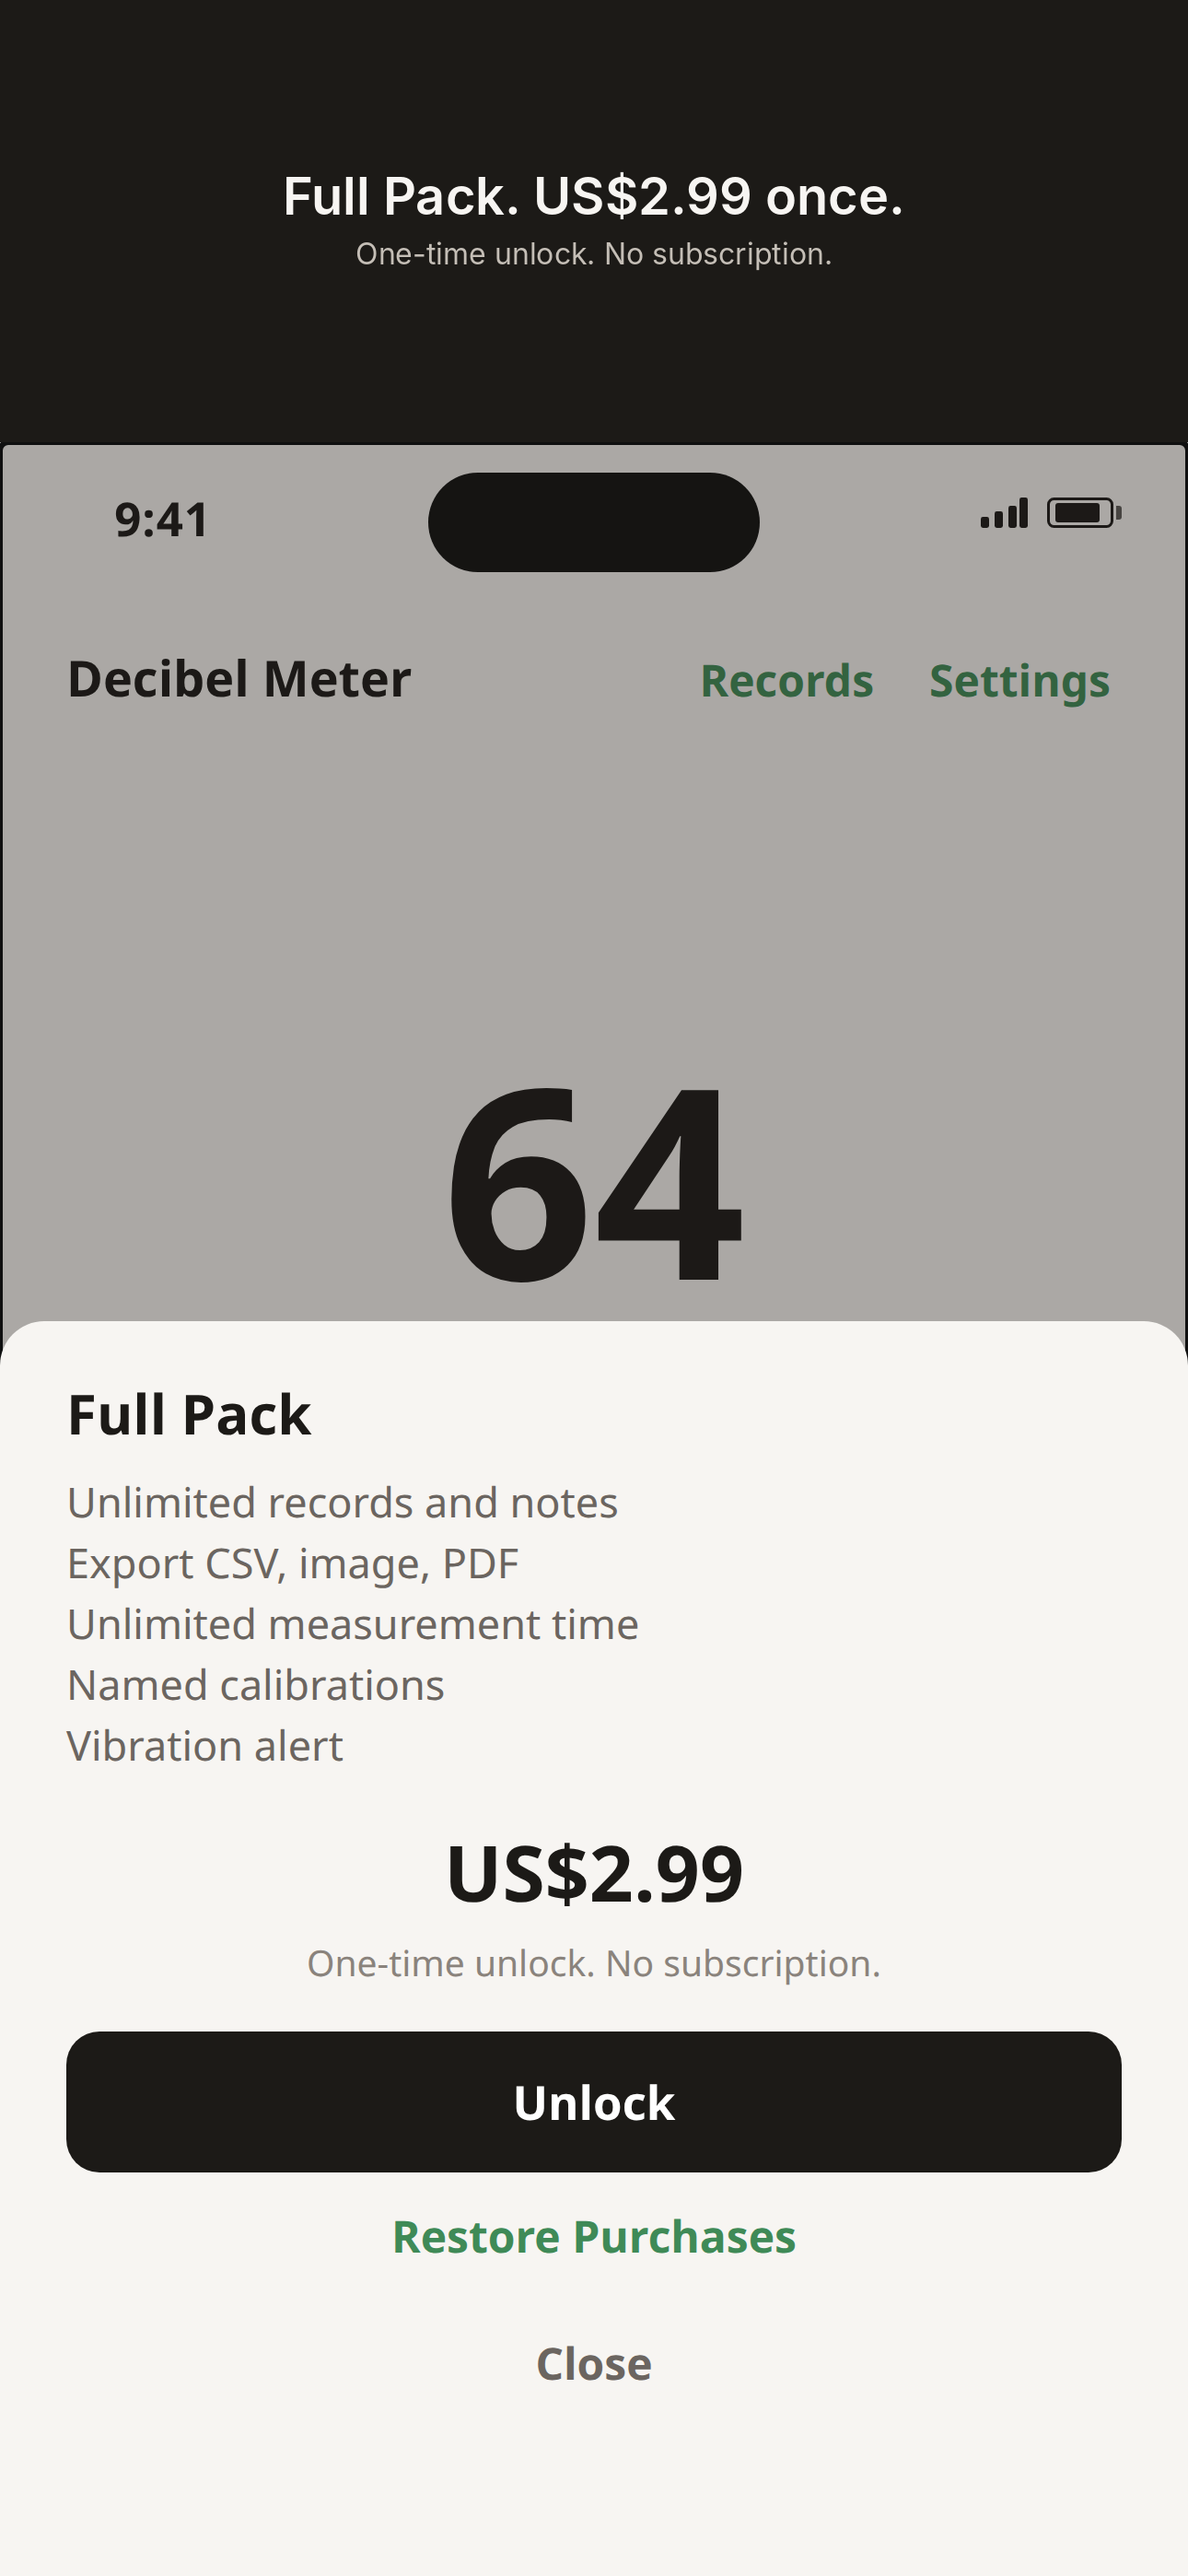
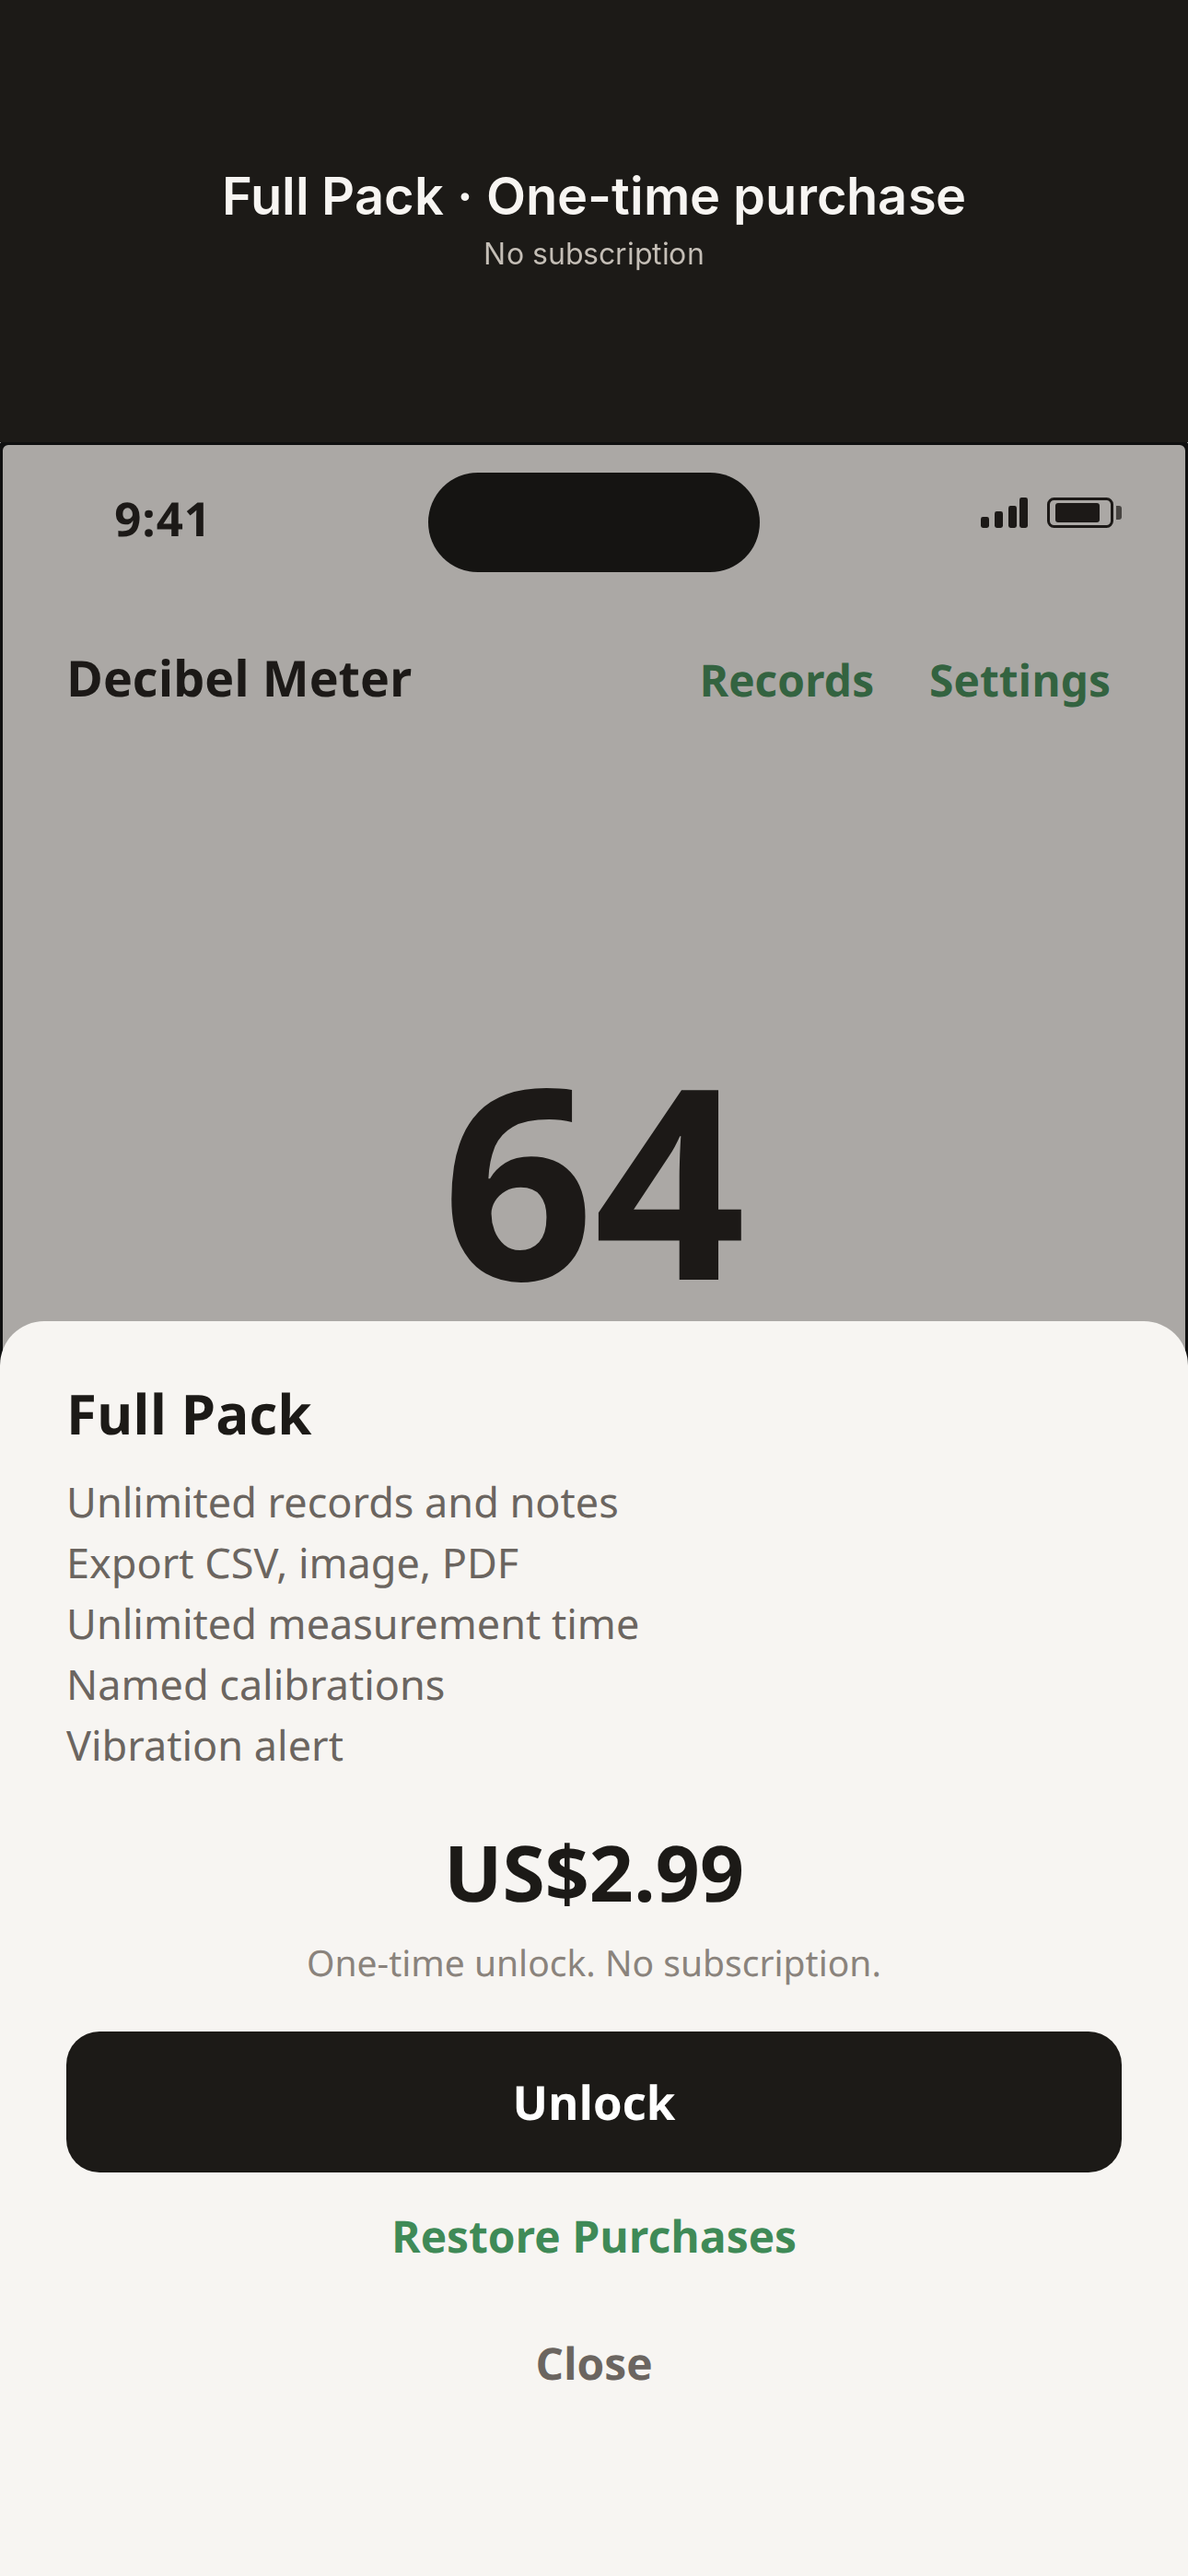
app4: v1.1 付費牆截圖標題去掉價格 (#62)
* app4: drop price from v1.1 paywall screenshot captions

Keep the in-app US$2.99. Caption is Full Version / 完整版 one-time, no subscription.

* app4: match paywall caption to in-app Full Pack name

Use paywall.title Full Pack / 完整包. No price in the caption band.

---------

Changed region(s): [[0.186, 0.0622, 0.8062, 0.1245]]

diff --git a/app4/store/screenshots/v1.1/README.md b/app4/store/screenshots/v1.1/README.md
@@ -16,7 +16,7 @@ Locales: `en-US`, `zh-Hant`.
 2. `02-levels.png` — everyday level reference on the meter
 3. `03-records.png` — history list
 4. `04-export.png` — CSV / image / PDF export UI
-5. `05-paywall.png` — Full Pack, US$2.99 one-time
+5. `05-paywall.png` — Full Pack paywall. Caption (no price): “Full Pack · One-time purchase” / 「完整包｜一次買斷」, subline “No subscription” / 「沒有訂閱」. In-app UI still shows US$2.99.
 
 `iap-review/<locale>-paywall.png` is the same paywall at iPhone size with no caption band.
 
